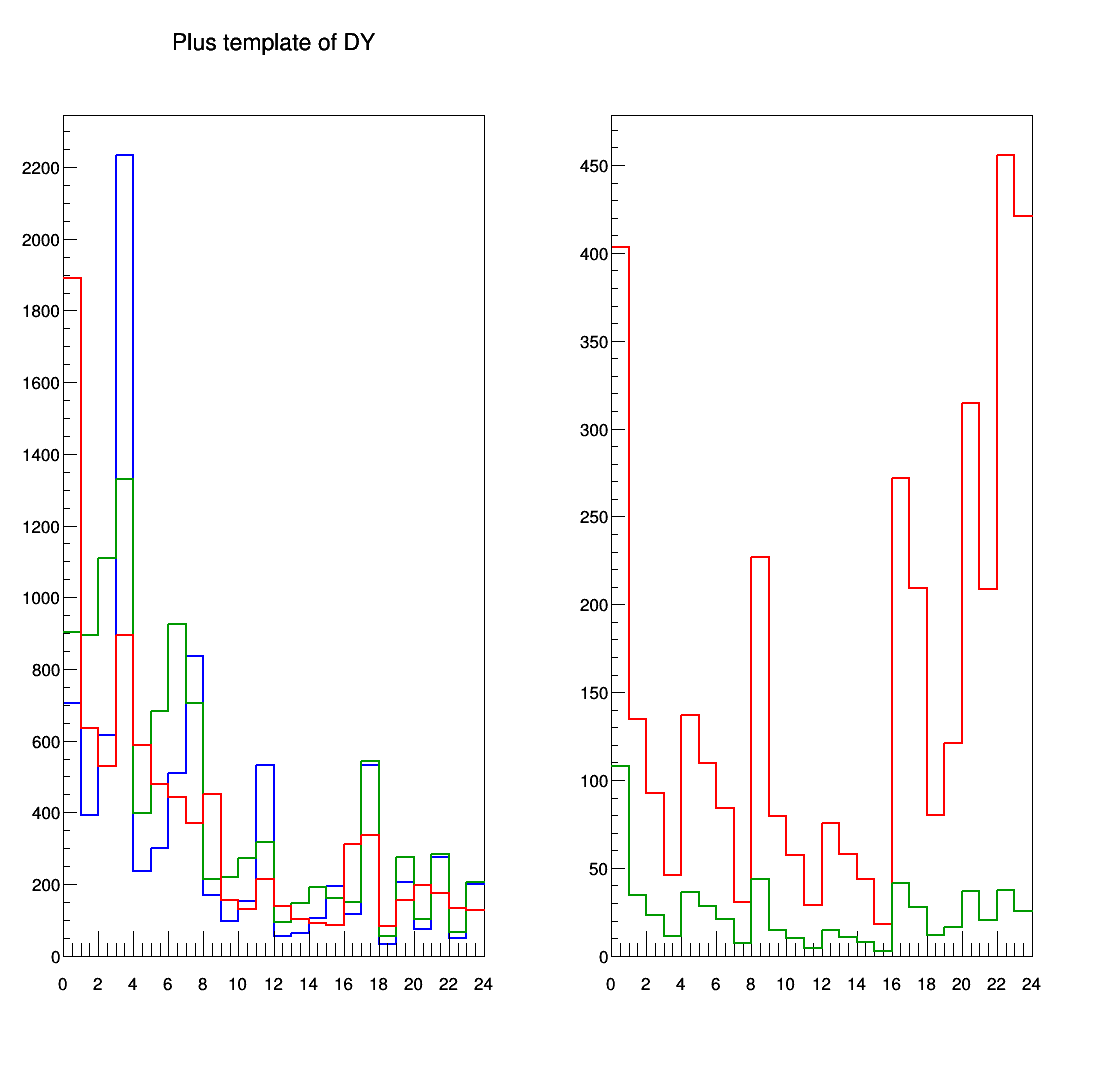
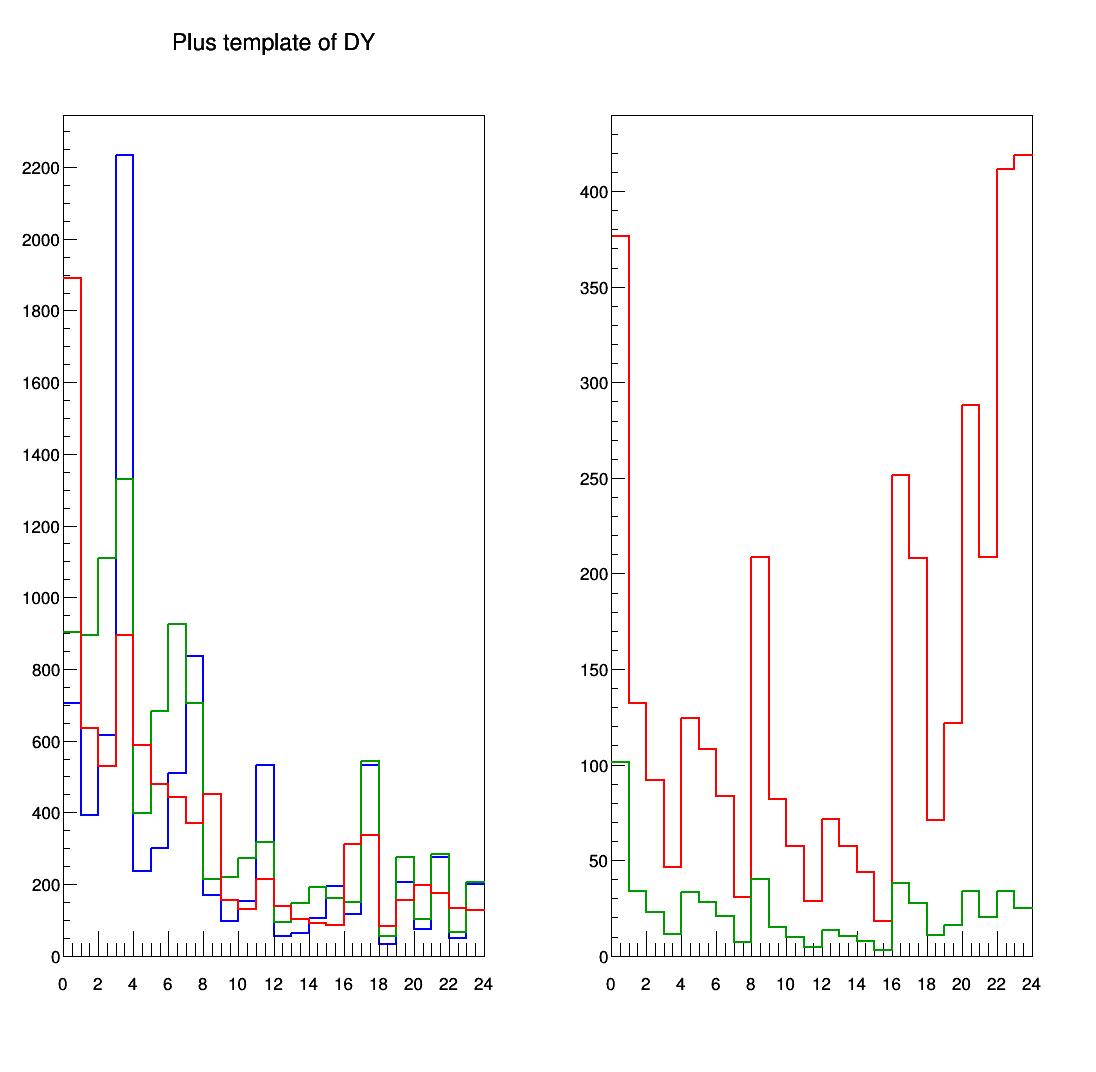
plotting sign change in xsec

diff --git a/analyze/combine/LQ_make_gen_templates.C b/analyze/combine/LQ_make_gen_templates.C
@@ -162,7 +162,7 @@ void LQ_make_gen_templates(){
         int nEvents_data = 0;
 
     //nEvents += make_gen_temps(t_gen_mu, h_uncut, h_raw, h_sym, h_asym, h_alpha, m_low, m_high, do_ptrw, year, sys);
-        sum_weights = make_gen_temps(t_gen_el, h1_LQpure_test, h1_LQint_test, h_raw, h_sym, h_asym, h_alpha, h_LQpure_u, h_LQpure_d, h_LQint_u, h_LQint_d,  m_LQ, only_sym, test_sign, year);
+        sum_weights = make_gen_temps(t_gen_el, h_raw, h_sym, h_asym, h_alpha, h_LQpure_u, h_LQpure_d, h_LQint_u, h_LQint_d,  m_LQ, only_sym, test_sign, year);
     	//printf("Finished make_gen_temps, nEvents = %i\n",nEvents);
         nEvents_data += make_gen_data_temps(t_gen_data, h_data, xsec, nevents, year, sum_weights);
         nEvents_data+= make_gen_data_temps(t_gen_data_SM, h_data_SM, xsec_SM, nevents_SM, year, sum_weights);
@@ -241,7 +241,7 @@ void LQ_make_gen_templates(){
         h_LQint_d->Reset();
 
 
-        sum_weights = make_gen_temps(t_gen_el, h_raw, h_sym, h_asym, h_alpha, h_LQpure_u, h_LQpure_d, h_LQint_u, h_LQint_d,  m_LQ, only_sym, test_sign, do_ptrw, year, sys);
+        sum_weights = make_gen_temps(t_gen_el, h_raw, h_sym, h_asym, h_alpha, h_LQpure_u, h_LQpure_d, h_LQint_u, h_LQint_d,  m_LQ, only_sym, test_sign, year);
         
 
         h1_LQpure_test_u = convert3d(h_LQpure_u);

diff --git a/utils/LQ_TemplateMaker_systematics.C b/utils/LQ_TemplateMaker_systematics.C
@@ -867,7 +867,7 @@ float get_LQ_denom(float gen_cost,float s,float Q_q, float caq, float cvq, bool 
 
 //make templates based on generator level samples 
 
-  float make_gen_temps(TTree *t_gen, TH1F *h1_LQpure_test, TH1F *h1_LQint_test, TH3F *h_raw, TH3F *h_sym, TH3F *h_asym, TH3F *h_alpha,  TH3F *h_LQpure_u, TH3F *h_LQpure_d,  TH3F *h_LQint_u, TH3F *h_LQint_d,
+  float make_gen_temps(TTree *t_gen, TH3F *h_raw, TH3F *h_sym, TH3F *h_asym, TH3F *h_alpha,  TH3F *h_LQpure_u, TH3F *h_LQpure_d,  TH3F *h_LQint_u, TH3F *h_LQint_d,
     float m_LQ, bool only_sym = false, bool test_sign = true,int year = 2016){
     
     h_sym->Sumw2(); //what is sumw2 -> create structure to store the sum of the squares of weights
